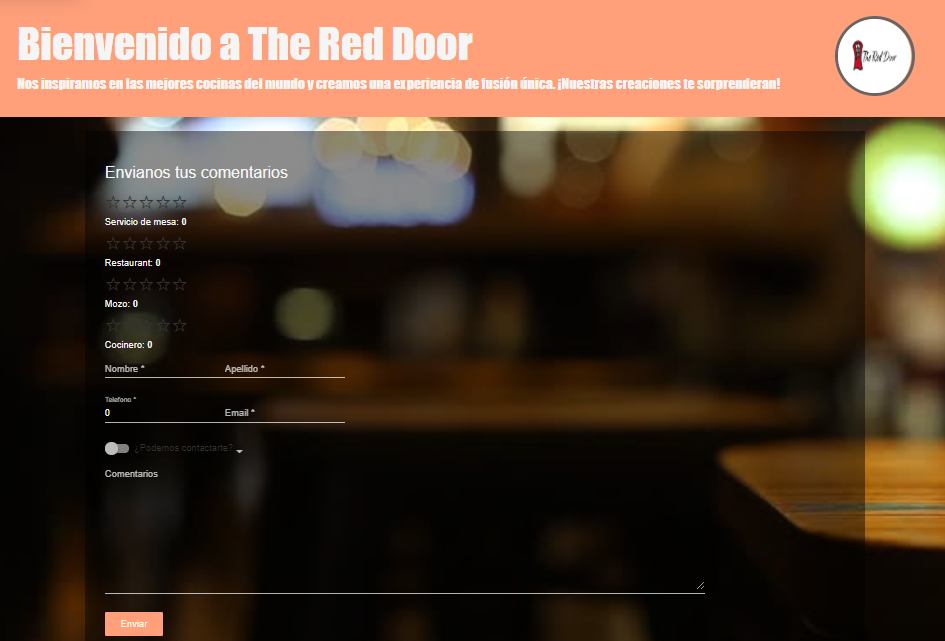
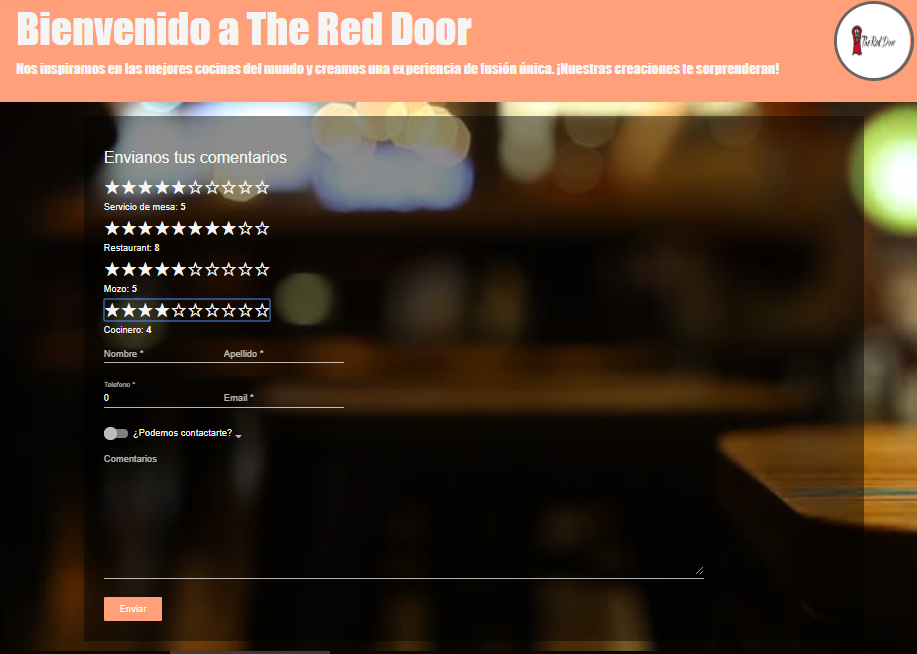
agrego estrellas a encuesta y modifico imagenes readme

diff --git a/src/app/encuesta/encuesta.component.ts b/src/app/encuesta/encuesta.component.ts
@@ -54,7 +54,7 @@ export class EncuestaComponent implements OnInit {
             ) 
     {
     this.createForm();
-    config.max = 5;
+    config.max = 10;
     config.readonly = false;
    }
 

diff --git a/src/app/encuesta/encuesta.component.css b/src/app/encuesta/encuesta.component.css
@@ -8,3 +8,7 @@ h3
 {
     color:whitesmoke;
 }
+
+* {
+    color: whitesmoke;
+}
